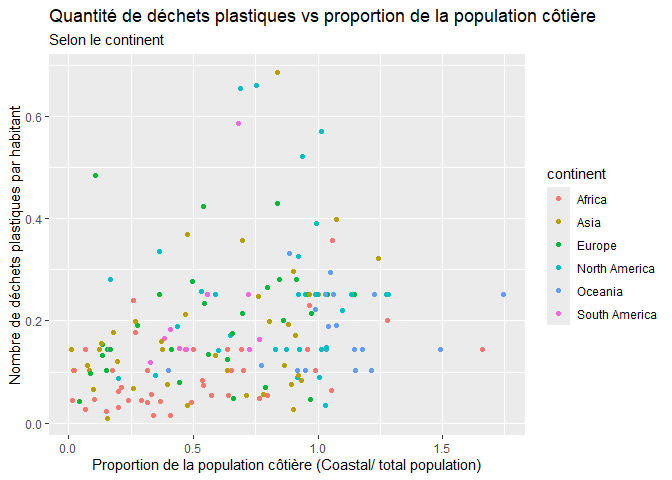
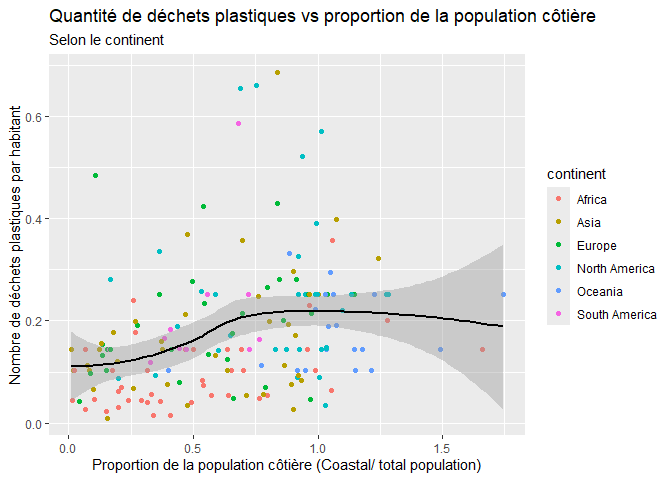
Terminé sauf réponse conclusion

Changed region(s): [[0.0938, 0.5, 0.75, 0.8438]]

diff --git a/lab-02.md b/lab-02.md
@@ -29,7 +29,10 @@ plastic_waste <- plastic_waste %>%
 ggplot(plastic_waste,aes(x = plastic_waste_per_cap)) + geom_histogram(binwidth = 0.2) + facet_wrap( ~ continent )
 ```
 
-![](lab-02_files/figure-gfm/plastic-waste-continent-1.png)<!-- -->
+![](lab-02_files/figure-gfm/plastic-waste-continent-1.png)<!-- --> En
+comparant les continents selon leur quantité déchets plastiques, il est
+possible de constater que l’Amérique du Sud et l’Océanie sont les
+continents qui en possèdent le moins.
 
 ### Exercise 2
 
@@ -114,16 +117,22 @@ plastic_waste_coastal <- plastic_waste %>%
   mutate(coastal_pop_prop = coastal_pop / total_pop) %>%
   filter(plastic_waste_per_cap < 3)
 
-ggplot(plastic_waste, aes(x=coastal_pop / total_pop, y=plastic_waste_per_cap, color=continent)) +geom_point() +labs(title = "Quantité de déchets plastiques vs proportion de la population côtière ",
+ggplot(plastic_waste, aes(x=coastal_pop / total_pop, y=plastic_waste_per_cap, color=continent)) +
+  geom_point() +
+  labs(title = "Quantité de déchets plastiques vs proportion de la population côtière ",
        subtitle = "Selon le continent",
-       x = "Proportion de la population côtière (Coastal/ total population)", y = "Nombre de déchets plastiques par habitant")
+       x = "Proportion de la population côtière (Coastal/ total population)", y = "Nombre de déchets plastiques par habitant") +
+  geom_smooth(color="black")
 ```
+
+    ## `geom_smooth()` using method = 'loess' and formula = 'y ~ x'
+
+    ## Warning: Removed 10 rows containing non-finite outside the scale range
+    ## (`stat_smooth()`).
 
     ## Warning: Removed 10 rows containing missing values or values outside the scale range
     ## (`geom_point()`).
 
 ![](lab-02_files/figure-gfm/recreate-viz-1.png)<!-- -->
-
-\`\`\`
 
 Rép:
